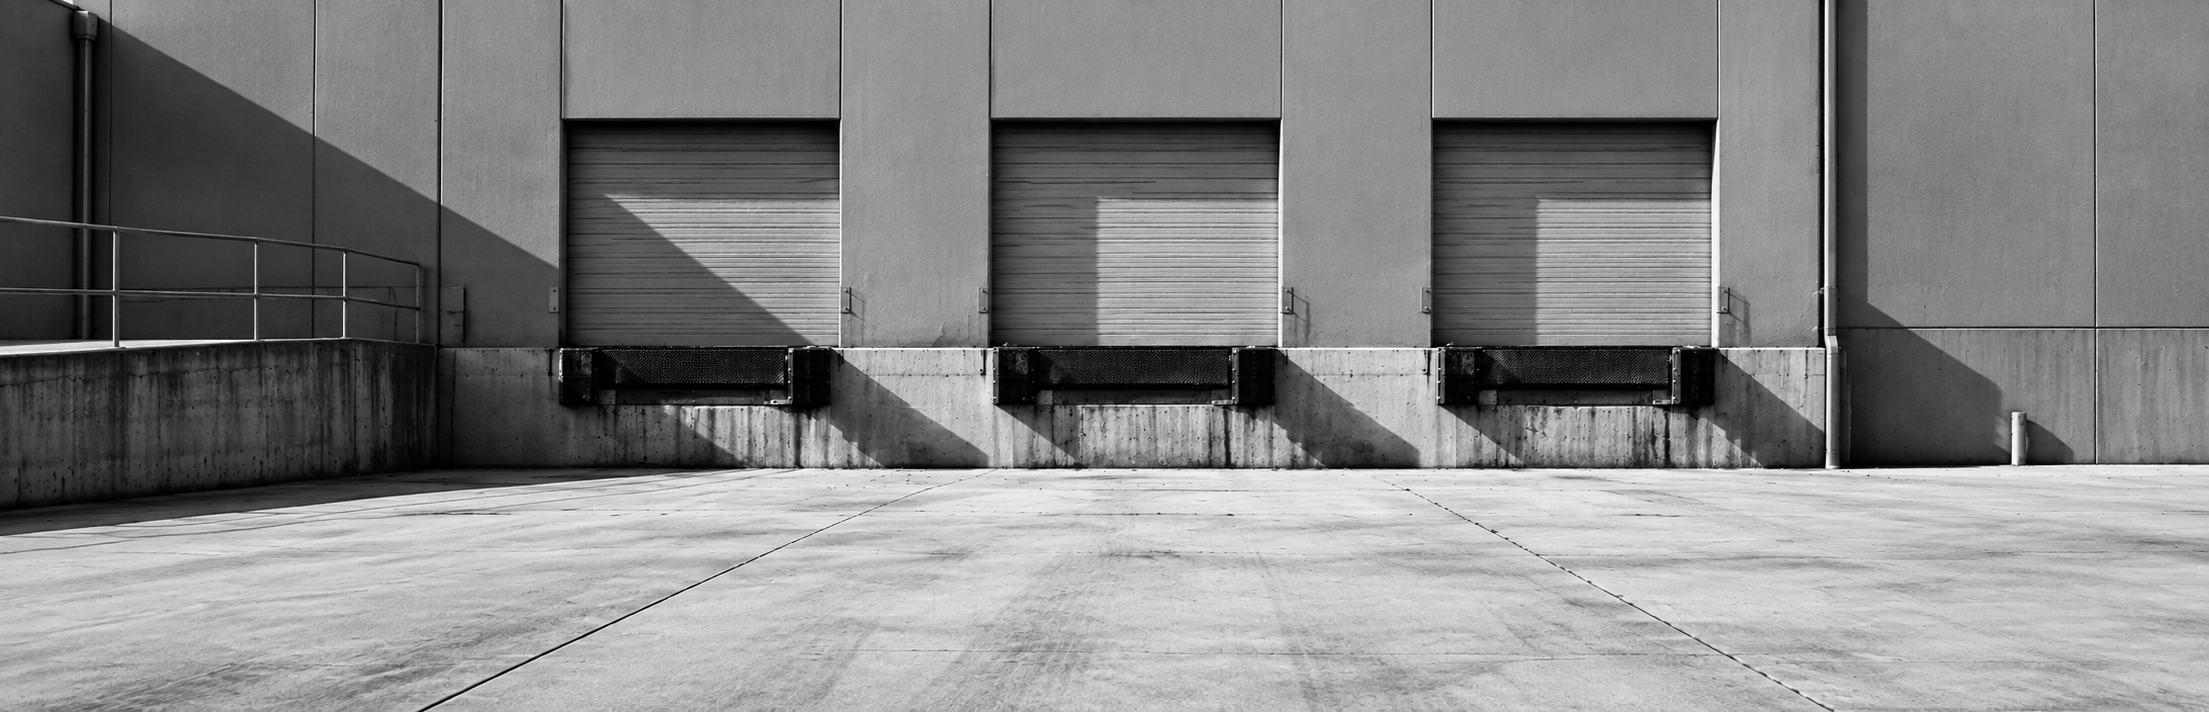
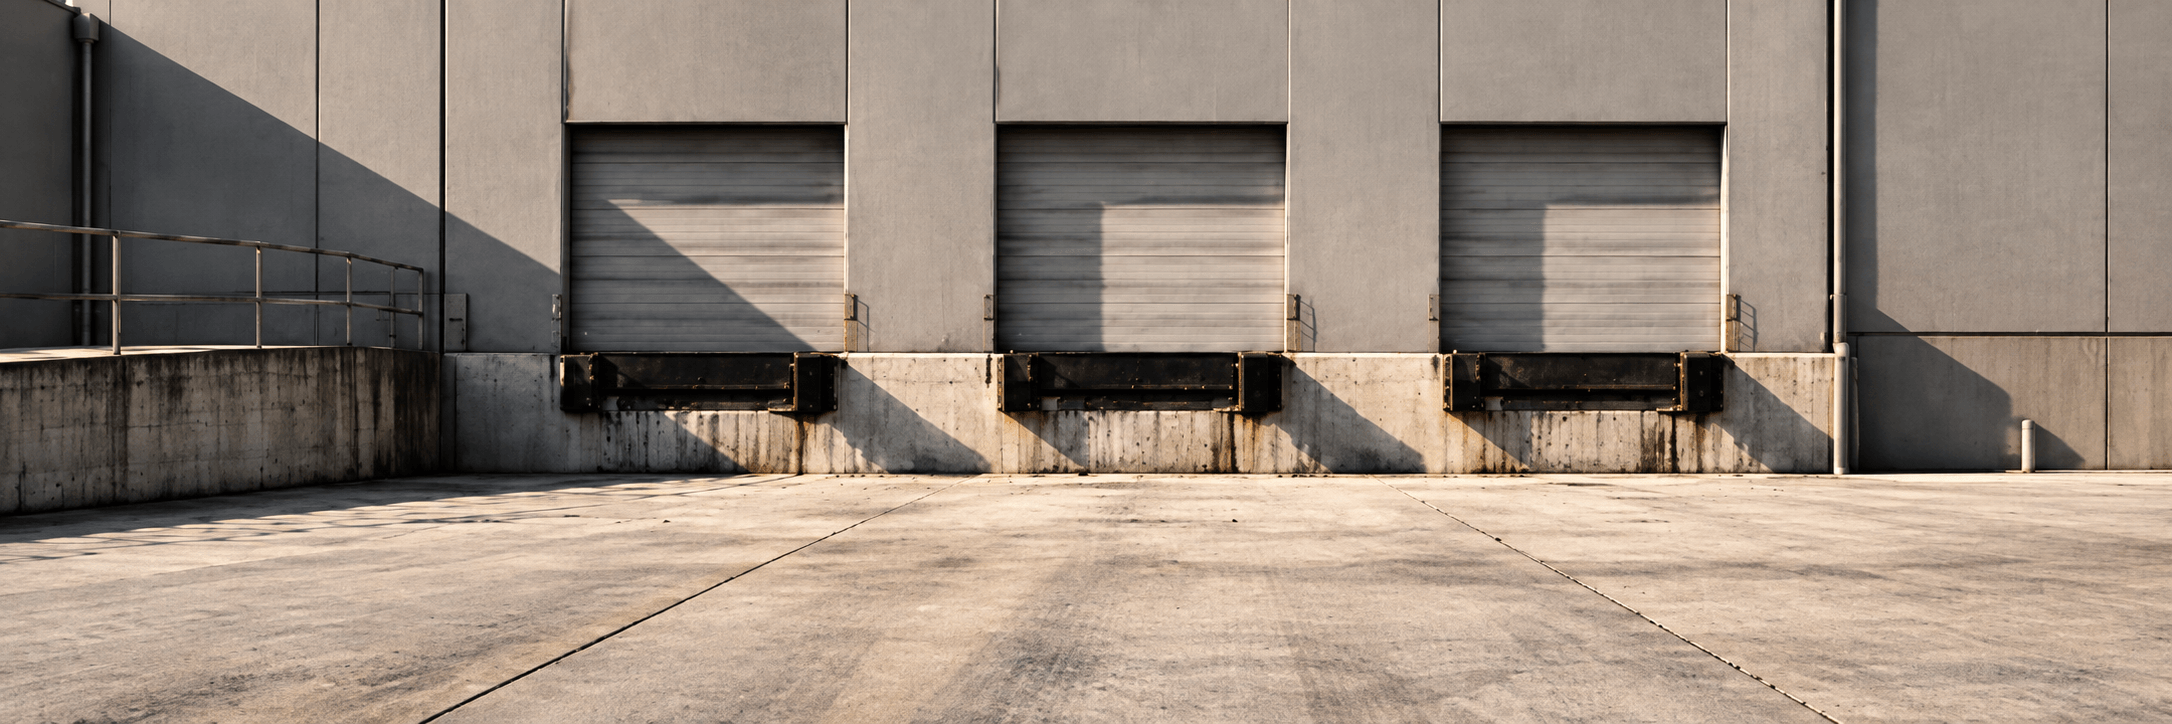
Replace photos with color versions, add SEO/accessibility fixes
Photos: replace all 15 site photos with new color versions (PNG);
remove old JPG files and update all src references accordingly.

SEO/accessibility:
- Add canonical tags to all 13 content pages
- Add Organization JSON-LD to root layout
- Add ProfessionalService JSON-LD to homepage
- Add Service JSON-LD to all 7 service pages
- Fix TrustBar logo accessibility (role="img" + aria-label on all logo spans)

diff --git a/app/(marketing)/page.tsx b/app/(marketing)/page.tsx
@@ -13,6 +13,7 @@ import { ServicesGrid } from "@/components/ServicesGrid";
 export const metadata: Metadata = {
   title: meta.home.title,
   description: meta.home.description,
+  alternates: { canonical: "/" },
   openGraph: {
     title: home.hero.h1[0], // "You're probably overpaying for trash." — social title, not SEO title
     description: meta.home.description,
@@ -25,6 +26,22 @@ export const metadata: Metadata = {
 export default function HomePage() {
   return (
     <>
+      <script
+        type="application/ld+json"
+        dangerouslySetInnerHTML={{
+          __html: JSON.stringify({
+            "@context": "https://schema.org",
+            "@type": "ProfessionalService",
+            "name": "WMRS",
+            "legalName": "Waste Management Reduction Services, LLC",
+            "url": "https://wmrservice.com",
+            "telephone": "+19144851500",
+            "foundingDate": "2008",
+            "description": "WMRS audits your waste and recycling invoices, renegotiates your rates, and takes over the billing. Free audit, no upfront cost.",
+            "areaServed": ["US", "CA"],
+          }),
+        }}
+      />
 {/* ── Hero ─────────────────────────────────────────────────────────── */}
       <section className="relative z-[1] bg-white overflow-hidden min-h-[560px] lg:min-h-[530px] flex items-center">
 
@@ -165,7 +182,7 @@ export default function HomePage() {
         {/* Desktop: image bleeds to viewport right edge, fills full height */}
         <div className="hidden lg:block absolute inset-y-0 right-0 w-1/2">
           <Image
-            src="/dumpsters-alt.jpg"
+            src="/dumpsters-alt.png"
             alt="Four commercial dumpsters against a concrete wall"
             fill
             className="object-cover object-center"
@@ -198,7 +215,7 @@ export default function HomePage() {
         {/* Mobile: image below copy at 4:3 */}
         <div className="lg:hidden relative aspect-[4/3]">
           <Image
-            src="/dumpsters-alt.jpg"
+            src="/dumpsters-alt.png"
             alt="Four commercial dumpsters against a concrete wall"
             fill
             className="object-cover object-center"

diff --git a/app/(marketing)/services/international-waste/page.tsx b/app/(marketing)/services/international-waste/page.tsx
@@ -10,6 +10,7 @@ const page = servicePages.find((p) => p.slug === "international-waste")!;
 export const metadata: Metadata = {
   title: meta.internationalWaste.title,
   description: meta.internationalWaste.description,
+  alternates: { canonical: "/services/international-waste" },
   openGraph: {
     title: meta.internationalWaste.title,
     description: meta.internationalWaste.description,
@@ -20,13 +21,25 @@ export const metadata: Metadata = {
 export default function InternationalWastePage() {
   return (
     <div className="vt-section-content">
+      <script
+        type="application/ld+json"
+        dangerouslySetInnerHTML={{
+          __html: JSON.stringify({
+            "@context": "https://schema.org",
+            "@type": "Service",
+            "name": page.fullName,
+            "provider": { "@type": "Organization", "name": "WMRS" },
+            "description": meta.internationalWaste.description,
+          }),
+        }}
+      />
       {/* ── Hero ─────────────────────────────────────────────────────────── */}
       <ServiceHero
         eyebrow="International Catering Waste"
         headline="Some food waste is a quarantine problem."
         intro="Food waste from aircraft and vessels arriving from outside the country is regulated by the USDA, not treated as ordinary garbage. It has to be segregated, sealed, and destroyed at an approved facility, and when something goes wrong the liability lands on the operator rather than the hauler."
         items={["Segregation at Source", "Sealed Transfer", "Approved Facilities", "Chain of Custody", "Retained Records"]}
-        image={{ src: "/international-waste.jpg", alt: "A row of aluminum airline catering trolleys on an airport apron" }}
+        image={{ src: "/international-waste.png", alt: "A row of aluminum airline catering trolleys on an airport apron" }}
       />
 
       {/* ── Sections ─────────────────────────────────────────────────────── */}

diff --git a/app/(marketing)/services/temp-containers/page.tsx b/app/(marketing)/services/temp-containers/page.tsx
@@ -10,6 +10,7 @@ const page = servicePages.find((p) => p.slug === "temp-containers")!;
 export const metadata: Metadata = {
   title: meta.tempContainers.title,
   description: meta.tempContainers.description,
+  alternates: { canonical: "/services/temp-containers" },
   openGraph: {
     title: meta.tempContainers.title,
     description: meta.tempContainers.description,
@@ -20,13 +21,25 @@ export const metadata: Metadata = {
 export default function TempContainersPage() {
   return (
     <div className="vt-section-content">
+      <script
+        type="application/ld+json"
+        dangerouslySetInnerHTML={{
+          __html: JSON.stringify({
+            "@context": "https://schema.org",
+            "@type": "Service",
+            "name": page.fullName,
+            "provider": { "@type": "Organization", "name": "WMRS" },
+            "description": meta.tempContainers.description,
+          }),
+        }}
+      />
       {/* ── Hero ─────────────────────────────────────────────────────────── */}
       <ServiceHero
         eyebrow={page.fullName}
         headline="Tell us where it's going and when."
         intro="Roll-offs and temporary containers for cleanouts, renovations, and job sites. Send us the address and the date and we'll come back with a price. If you run more than one site, that price gets set against all of them rather than against whatever the local vendor quotes that week."
         items={["Roll-Off Containers", "Cleanouts", "Renovations", "Job Sites", "Events", "Scheduled Swap Outs"]}
-        image={{ src: "/temp-containers.jpg", alt: "A roll-off container on a gravel construction site" }}
+        image={{ src: "/temp-containers.png", alt: "A roll-off container on a gravel construction site" }}
       />
 
       {/* ── Form ─────────────────────────────────────────────────────────── */}

diff --git a/app/(marketing)/services/esg-reporting/page.tsx b/app/(marketing)/services/esg-reporting/page.tsx
@@ -10,19 +10,32 @@ const page = servicePages.find((p) => p.slug === "esg-reporting")!;
 export const metadata: Metadata = {
   title: meta.esgReporting.title,
   description: meta.esgReporting.description,
+  alternates: { canonical: "/services/esg-reporting" },
   openGraph: { title: meta.esgReporting.title, description: meta.esgReporting.description , images: ["/og.png"]},
 };
 
 export default function EsgReportingPage() {
   return (
     <div className="vt-section-content">
+      <script
+        type="application/ld+json"
+        dangerouslySetInnerHTML={{
+          __html: JSON.stringify({
+            "@context": "https://schema.org",
+            "@type": "Service",
+            "name": page.fullName,
+            "provider": { "@type": "Organization", "name": "WMRS" },
+            "description": meta.esgReporting.description,
+          }),
+        }}
+      />
       {/* ── Hero ─────────────────────────────────────────────────────────── */}
       <ServiceHero
         eyebrow={page.fullName}
         headline="Diverting more and paying less are the same project."
         intro="A sustainability report needs tonnage by stream, by site, for the year. Haulers report in different formats on different cycles, some estimate rather than weigh, and some do not report at all unless you ask every month."
         items={["Tonnage by Stream", "Diversion Rates", "Site Level Detail", "Annual Rollups", "Auditable Back to Invoice"]}
-        image={{ src: "/esg-reporting.jpg", alt: "Rows of compressed cardboard bales stacked at a recycling facility" }}
+        image={{ src: "/esg-reporting.png", alt: "Rows of compressed cardboard bales stacked at a recycling facility" }}
       />
 
       {/* ── Sections ─────────────────────────────────────────────────────── */}

diff --git a/app/(marketing)/services/portable-restrooms/page.tsx b/app/(marketing)/services/portable-restrooms/page.tsx
@@ -11,19 +11,32 @@ const page = servicePages.find((p) => p.slug === "portable-restrooms")!;
 export const metadata: Metadata = {
   title: meta.portableRestrooms.title,
   description: meta.portableRestrooms.description,
+  alternates: { canonical: "/services/portable-restrooms" },
   openGraph: { title: meta.portableRestrooms.title, description: meta.portableRestrooms.description , images: ["/og.png"]},
 };
 
 export default function PortableRestroomsPage() {
   return (
     <div className="vt-section-content">
+      <script
+        type="application/ld+json"
+        dangerouslySetInnerHTML={{
+          __html: JSON.stringify({
+            "@context": "https://schema.org",
+            "@type": "Service",
+            "name": page.fullName,
+            "provider": { "@type": "Organization", "name": "WMRS" },
+            "description": meta.portableRestrooms.description,
+          }),
+        }}
+      />
       {/* ── Hero ─────────────────────────────────────────────────────────── */}
       <ServiceHero
         eyebrow={page.fullName}
         headline="Ordered last minute, priced accordingly."
         intro="Restrooms get arranged the week before, from whichever vendor answers first, on a separate account from everything else on the site. It is the same pattern as the containers, and it produces the same result."
         items={["Standard Units", "ADA Accessible", "Hand Wash Stations", "Holding Tanks", "Scheduled Servicing"]}
-        image={{ src: "/portable-restrooms.jpg", alt: "Five portable restrooms lined up against a concrete wall" }}
+        image={{ src: "/portable-restrooms.png", alt: "Five portable restrooms lined up against a concrete wall" }}
       />
 
       {/* ── Sections ─────────────────────────────────────────────────────── */}

diff --git a/app/(marketing)/services/environmental/page.tsx b/app/(marketing)/services/environmental/page.tsx
@@ -10,19 +10,32 @@ const page = servicePages.find((p) => p.slug === "environmental")!;
 export const metadata: Metadata = {
   title: meta.environmental.title,
   description: meta.environmental.description,
+  alternates: { canonical: "/services/environmental" },
   openGraph: { title: meta.environmental.title, description: meta.environmental.description , images: ["/og.png"]},
 };
 
 export default function EnvironmentalPage() {
   return (
     <div className="vt-section-content">
+      <script
+        type="application/ld+json"
+        dangerouslySetInnerHTML={{
+          __html: JSON.stringify({
+            "@context": "https://schema.org",
+            "@type": "Service",
+            "name": page.fullName,
+            "provider": { "@type": "Organization", "name": "WMRS" },
+            "description": meta.environmental.description,
+          }),
+        }}
+      />
       {/* ── Hero ─────────────────────────────────────────────────────────── */}
       <ServiceHero
         eyebrow="Tank Removal & Site Remediation"
         headline="The soil has a say in the closing date."
         intro="Phase II assessments, tank removals, and cleanups are almost always on somebody else's timeline: a buyer, a lender, a regulator, or a deadline you did not set. The work is technical. The pressure is scheduling."
         items={["Phase II Assessments", "Soil and Groundwater Sampling", "Tank Removal", "Soil Remediation", "Closure Documentation"]}
-        image={{ src: "/environmental.jpg", alt: "An underground storage tank lifted from an excavation pit" }}
+        image={{ src: "/environmental.png", alt: "An underground storage tank lifted from an excavation pit" }}
       />
 
       {/* ── Sections ─────────────────────────────────────────────────────── */}

diff --git a/app/(marketing)/services/equipment/page.tsx b/app/(marketing)/services/equipment/page.tsx
@@ -10,6 +10,7 @@ const page = servicePages.find((p) => p.slug === "equipment")!;
 export const metadata: Metadata = {
   title: meta.equipment.title,
   description: meta.equipment.description,
+  alternates: { canonical: "/services/equipment" },
   openGraph: {
     title: meta.equipment.title,
     description: meta.equipment.description,
@@ -20,12 +21,24 @@ export const metadata: Metadata = {
 export default function EquipmentPage() {
   return (
     <div className="vt-section-content">
+      <script
+        type="application/ld+json"
+        dangerouslySetInnerHTML={{
+          __html: JSON.stringify({
+            "@context": "https://schema.org",
+            "@type": "Service",
+            "name": page.fullName,
+            "provider": { "@type": "Organization", "name": "WMRS" },
+            "description": meta.equipment.description,
+          }),
+        }}
+      />
       {/* ── Hero ─────────────────────────────────────────────────────────── */}
       <ServiceHero
         eyebrow={page.fullName}
         headline="Nobody budgets for a compactor until it stops."
         intro="Balers, compactors, and autoclaves are capital purchases that tend to arrive as emergencies. We finance them directly, rent them when a site's volume isn't settled yet, and repair the ones you already have, whoever sold them to you."
-        image={{ src: "/equipment.jpg", alt: "A vertical baler with a compressed bale of cardboard in an industrial warehouse" }}
+        image={{ src: "/equipment.png", alt: "A vertical baler with a compressed bale of cardboard in an industrial warehouse" }}
       />
 
       {/* ── Sections ─────────────────────────────────────────────────────── */}

diff --git a/components/TrustBar.tsx b/components/TrustBar.tsx
@@ -186,6 +186,8 @@ export function TrustBar() {
               <span
                 key={name}
                 title={name}
+                role="img"
+                aria-label={name}
                 className="text-white opacity-60 hover:opacity-100 transition-opacity duration-200 inline-flex items-center"
               >
                 <Logo height={height} />
@@ -210,6 +212,8 @@ export function TrustBar() {
               <span
                 key={name}
                 title={name}
+                role="img"
+                aria-label={name}
                 className="text-white opacity-60 hover:opacity-100 transition-opacity duration-200 inline-flex items-center"
               >
                 <Logo height={Math.round(height * 0.85)} />
@@ -235,6 +239,8 @@ export function TrustBar() {
                 <span
                   key={name}
                   title={name}
+                  role="img"
+                  aria-label={name}
                   className="text-white opacity-60 hover:opacity-100 transition-opacity duration-200 inline-flex items-center"
                 >
                   <Logo height={Math.round(height * 0.75)} />
@@ -246,6 +252,8 @@ export function TrustBar() {
                 <span
                   key={name}
                   title={name}
+                  role="img"
+                  aria-label={name}
                   className="text-white opacity-60 hover:opacity-100 transition-opacity duration-200 inline-flex items-center"
                 >
                   <Logo height={Math.round(height * 0.75)} />

diff --git a/app/(marketing)/site-management/page.tsx b/app/(marketing)/site-management/page.tsx
@@ -10,6 +10,7 @@ import { meta, siteManagement } from "@/content/site";
 export const metadata: Metadata = {
   title: meta.siteManagement.title,
   description: meta.siteManagement.description,
+  alternates: { canonical: "/site-management" },
   openGraph: {
     title: meta.siteManagement.title,
     description: meta.siteManagement.description,
@@ -26,7 +27,7 @@ export default function SiteManagementPage() {
         {/* Desktop: image fills right 50% absolutely */}
         <div className="hidden lg:block absolute top-0 right-0 bottom-0 w-[50%]">
           <Image
-            src="/site-management-hero.jpg"
+            src="/site-management-hero.png"
             alt="Four commercial waste containers against a concrete wall"
             fill
             className="object-cover object-[center_38%]"
@@ -38,7 +39,7 @@ export default function SiteManagementPage() {
         {/* Mobile: image above content, shallow band */}
         <div className="lg:hidden relative h-[210px]">
           <Image
-            src="/site-management-hero.jpg"
+            src="/site-management-hero.png"
             alt="Four commercial waste containers against a concrete wall"
             fill
             className="object-cover object-[center_38%]"

diff --git a/app/(marketing)/contact/page.tsx b/app/(marketing)/contact/page.tsx
@@ -8,6 +8,7 @@ import { meta } from "@/content/site";
 export const metadata: Metadata = {
   title: meta.contact.title,
   description: meta.contact.description,
+  alternates: { canonical: "/contact" },
   openGraph: {
     title: meta.contact.title,
     description: meta.contact.description,
@@ -29,7 +30,7 @@ export default async function ContactPage({
         {/* Desktop (1024px+): image fills right 50% absolutely */}
         <div className="hidden lg:block absolute top-0 right-0 bottom-0 w-[50%]">
           <Image
-            src="/contact-hero.jpg"
+            src="/contact-hero.png"
             alt="A commercial waste compactor with its hopper door open against a concrete wall"
             fill
             className="object-cover object-[65%_40%]"
@@ -41,7 +42,7 @@ export default async function ContactPage({
         {/* Mobile + tablet (<1024px): shallow band above content */}
         <div className="lg:hidden relative h-[120px] md:h-[200px]">
           <Image
-            src="/contact-hero.jpg"
+            src="/contact-hero.png"
             alt="A commercial waste compactor with its hopper door open against a concrete wall"
             fill
             className="object-cover object-[65%_40%]"

diff --git a/app/(marketing)/services/waste-cost-savings/page.tsx b/app/(marketing)/services/waste-cost-savings/page.tsx
@@ -10,6 +10,7 @@ const page = servicePages.find((p) => p.slug === "waste-cost-savings")!;
 export const metadata: Metadata = {
   title: meta.wasteCostSavings.title,
   description: meta.wasteCostSavings.description,
+  alternates: { canonical: "/services/waste-cost-savings" },
   openGraph: {
     title: meta.wasteCostSavings.title,
     description: meta.wasteCostSavings.description,
@@ -20,6 +21,18 @@ export const metadata: Metadata = {
 export default function WasteCostSavingsPage() {
   return (
     <div className="vt-section-content">
+      <script
+        type="application/ld+json"
+        dangerouslySetInnerHTML={{
+          __html: JSON.stringify({
+            "@context": "https://schema.org",
+            "@type": "Service",
+            "name": page.fullName,
+            "provider": { "@type": "Organization", "name": "WMRS" },
+            "description": meta.wasteCostSavings.description,
+          }),
+        }}
+      />
       {/* ── Hero ─────────────────────────────────────────────────────────── */}
       <ServiceHero
         eyebrow={page.fullName}

diff --git a/app/layout.tsx b/app/layout.tsx
@@ -57,7 +57,24 @@ export default function RootLayout({
 }) {
   return (
     <html lang="en" className={inter.variable}>
-      <body>{children}</body>
+      <body>
+        <script
+          type="application/ld+json"
+          dangerouslySetInnerHTML={{
+            __html: JSON.stringify({
+              "@context": "https://schema.org",
+              "@type": "Organization",
+              "name": "WMRS",
+              "legalName": "Waste Management Reduction Services, LLC",
+              "url": "https://wmrservice.com",
+              "logo": "https://wmrservice.com/og.png",
+              "telephone": "+19144851500",
+              "areaServed": ["US", "CA"],
+            }),
+          }}
+        />
+        {children}
+      </body>
     </html>
   );
 }
